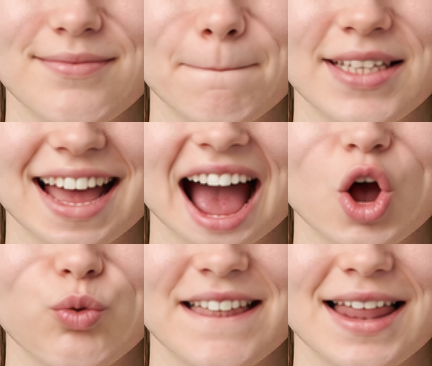
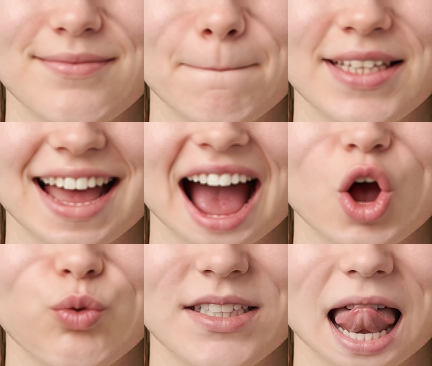
feat: rebuild Emma and prepare phonetic mouth cues before speech playback

diff --git a/cloudflare-deploy/public/js/mango-avatar.js b/cloudflare-deploy/public/js/mango-avatar.js
@@ -91,7 +91,7 @@
 (function(){
   function noop(){}
   if(!window.MangoAvatar){
-    window.MangoAvatar = { plainStart:noop, plainStop:noop, attach:noop, setCharacter:noop,
+    window.MangoAvatar = { plainStart:noop, plainStop:noop, attach:noop, prepare:function(){return Promise.resolve(null);}, setCharacter:noop,
       playClip:function(){ return Promise.reject(new Error('avatar_not_ready')); } };
   }
 
@@ -120,7 +120,10 @@
   //   ℹ 기본값은 그 반대(fade 130 > hold 90)이고 Lily·Noah 가 그대로인데 «그게 정상» 입니다 —
   //      그쪽은 한 번에 바뀌는 픽셀이 2~3% 뿐이라 겹쳐도 안 보입니다. 고치지 마세요.
   var CHARACTERS = {
-    emma: { sources:[['/img/teacher-avatar.webm','video/webm'],['/img/teacher-avatar.mp4','video/mp4']],
+    // 2026-10-16: user authorized a new Emma identity with registered mouth-only poses.
+    emma: { frames:{closed:'/img/visemes/emma-v2-rest.webp',medium:'/img/visemes/emma-v2-mid.webp',wide:'/img/visemes/emma-v2-wide.webp'},
+            still:'/img/visemes/emma-v2-rest.webp',rect:{l:0,t:0,r:1,b:1},aspect:0.8,keyed:false,fallback:'emma_classic' },
+    emma_classic: { sources:[['/img/teacher-avatar.webm','video/webm'],['/img/teacher-avatar.mp4','video/mp4']],
             still:'/img/teacher-avatar.png', rect:{ l:67/512, t:40/512, r:445/512, b:1 },
             poses:{ closed:3.3, medium:0.2, wide:4.0 }, hold:200, fade:160 },
     jake: { sources:[['/img/hero-avatar.mp4','video/mp4']],
@@ -128,7 +131,7 @@
             poses:{ closed:3.2, medium:7.1, wide:3.5 }, hold:200, fade:160 },
     lily: { frames:{ closed:'/img/lily-closed.webp', medium:'/img/lily-mid.webp', wide:'/img/lily-wide.webp' },
             still:'/img/lily-closed.webp', rect:{ l:0, t:0, r:1, b:1 },
-            aspect:0.8, keyed:false, fallback:'emma' },
+            aspect:0.8, keyed:false, fallback:'emma_classic' },
     noah: { frames:{ closed:'/img/noah-closed.webp', medium:'/img/noah-mid.webp', wide:'/img/noah-wide.webp' },
             still:'/img/noah-closed.webp', rect:{ l:0, t:0, r:1, b:1 },
             aspect:0.8, keyed:false, fallback:'jake' },
@@ -137,7 +140,7 @@
     //       «중국인 얼굴이 영어로 말하는» 상태가 됩니다(웜업에 중국어가 붙은 것이 먼저입니다).
     mei:  { frames:{ closed:'/img/mei-closed.webp', medium:'/img/mei-mid.webp', wide:'/img/mei-wide.webp' },
             still:'/img/mei-closed.webp', rect:{ l:0, t:0, r:1, b:1 },
-            aspect:0.8, keyed:false, fallback:'emma' },
+            aspect:0.8, keyed:false, fallback:'emma_classic' },
     /* 🀄 long(龙老师·룽 선생님) — 중국어 «남자» 교사(2026-09-14 사장님 「남자 교사도 한명더」).
        메이와 같은 규격입니다(입모양 3장·4:5·투명 WebP). fallback 이 jake 인 까닭은
        그림을 못 받았을 때 «남자» 얼굴로 떨어져야 목소리와 어긋나지 않기 때문입니다.
@@ -151,7 +154,7 @@
   };
   // 옛 이름으로 부르는 코드가 남아 있어도 조용히 죽지 않게 — setCharacter 가 먼저 풀어 준다.
   // ⚠ 화면이 새 이름으로만 부르도록 고쳤지만, 이 표를 지우면 옛 호출이 «아무 일도 안 일어남» 이 됩니다.
-  var CHAR_ALIAS = { female:'emma', male:'jake', female_classic:'emma', male_classic:'jake' };
+  var CHAR_ALIAS = { female:'emma', male:'jake', female_classic:'emma_classic', male_classic:'jake' };
   var BASE_W = 320;   // 캔버스 내부 해상도 기준 폭(캐릭터별 비율에 맞춰 높이만 재계산)
 
   function build(){
@@ -278,24 +281,26 @@
     var bindings = new WeakMap(), buffering = false, mouthCues=null, cueUrl='', preciseFaces={};
     // Generated mouths registered onto the shipped face. G/H use conservative substitutes
     // until F/V contact and tongue poses pass visual QA.
-    var PRECISION={lily:{base:'/img/lily-closed.webp',x:250,y:294,w:144,h:122},
-      noah:{base:'/img/noah-closed.webp',x:244,y:364,w:154,h:130},
-      emma:{base:'/img/visemes/emma-base.png',x:173,y:284,w:152,h:126}};
+    var PRECISION={lily:{extra:true,base:'/img/lily-closed.webp',x:250,y:294,w:144,h:122},
+      noah:{extra:true,base:'/img/noah-closed.webp',x:244,y:364,w:154,h:130},
+      emma:{extra:true,base:'/img/visemes/emma-v2-rest.webp',atlas:'/img/visemes/emma-v2-mouths.webp',x:183,y:282,w:146,h:126}};
     function precisionFace(){
       if(!PRECISION[curChar])return null;
       if(!preciseFaces[curChar]){
         var p=PRECISION[curChar],base=new Image(),mouths=new Image();
-        base.src=p.base;mouths.src='/img/visemes/'+curChar+'-mouths.webp';
+        base.src=p.base;mouths.src=p.atlas||('/img/visemes/'+curChar+'-mouths.webp');
         preciseFaces[curChar]={base:base,mouths:mouths,rect:p};
       }
       return preciseFaces[curChar];
     }
     function prepareCues(el){
-      mouthCues=null;cueUrl=el.currentSrc||el.src||'';
+      var nextUrl=el.src||el.currentSrc||'';
+      if(cueUrl!==nextUrl)mouthCues=null;cueUrl=nextUrl;
       var url=cueUrl;
-      if(!window.AvatarVisemes || !url)return;
-      window.AvatarVisemes.prepare(url).then(function(cues){
-        if(boundEl===el && cueUrl===url && (el.currentSrc||el.src||'')===url)mouthCues=cues;
+      if(!window.AvatarVisemes || !url)return Promise.resolve(null);
+      return window.AvatarVisemes.prepare(url).then(function(cues){
+        if(boundEl===el && cueUrl===url && (el.src||el.currentSrc||'')===url)mouthCues=cues;
+        return cues;
       }).catch(function(){});
     }
     function ensureCtx(){
@@ -332,7 +337,7 @@
       var pf=precisionFace(), precise=pf && mouthCues && !clipActive;
       if(precise && pf.base.complete && pf.base.naturalWidth && pf.mouths.complete && pf.mouths.naturalWidth){
         var pose=(!boundEl || boundEl.paused || boundEl.ended || buffering || !drawing) ? 'X' : window.AvatarVisemes.at(mouthCues,boundEl.currentTime);
-        if(pose==='G')pose='B';if(pose==='H')pose='C';
+        if(!pf.rect.extra){if(pose==='G')pose='B';if(pose==='H')pose='C';}
         var ix='XABCDEFGH'.indexOf(pose), r=pf.rect;
         var bw=pf.base.naturalWidth,bh=pf.base.naturalHeight;
         var bx=bw*cropRect.l,by=bh*cropRect.t,sw=bw*(cropRect.r-cropRect.l),sh=bh*(cropRect.b-cropRect.t);
@@ -523,6 +528,7 @@
           if(!audioEl.paused && !audioEl.ended) window.MangoAvatar.plainStart();
         }catch(e){ /* Preserve audible playback if Web Audio is unavailable. */ }
       },
+      prepare: function(audioEl){ if(boundEl!==audioEl)window.MangoAvatar.attach(audioEl);return prepareCues(audioEl); },
       // 캐릭터 전환 — 'emma'|'jake'|'lily'|'noah' (옛 'female'|'male' 도 받습니다).
       setCharacter: function(name){
         name = CHAR_ALIAS[name] || name;

diff --git a/cloudflare-deploy/public/js/game-tts.js b/cloudflare-deploy/public/js/game-tts.js
@@ -17,7 +17,7 @@
      늦게 도착한 소리가 그 위로 재생된다. 그러면 «AI 목소리가 나오는 채로 마이크가
      열려 음성인식이 AI 말을 받아 적던» 2026-07-23 사고가 그대로 되살아난다.
      그래서 늦게 온 응답은 이 번호를 보고 스스로 물러난다. */
-  var seq = 0;
+  var seq = 0, playTimer = 0;
   // 현재 발음 언어: 'en'(기본) | 'zh'(중국어). localStorage 로 페이지 간 공유.
   var curLang = (function(){ try{ var l=localStorage.getItem('mangoi_game_lang'); return (l==='zh')?'zh':'en'; }catch(_){ return 'en'; } })();
   // 🎙 서버 화자(Aura-2 speaker) — setSpeaker('orion'|'asteria'|null). null=서버 기본(여성 asteria).
@@ -134,18 +134,27 @@
   function playUrl(u, rate, onend){
     try{
       if(!audioEl) audioEl = new Audio();
-      var done=false, fin=function(){ if(!done){ done=true; if(onend) onend(); } };
-      if(onend){ audioEl.onended=fin; audioEl.onerror=fin; setTimeout(fin, 8000); }
-      else { audioEl.onended=null; audioEl.onerror=null; }
-      audioEl.src=u; audioEl.playbackRate = rate||1;
-      audioEl.play().catch(function(){ fin(); });
-    }catch(_){ if(onend) onend(); }
+      clearTimeout(playTimer);
+      var mine=seq, done=false, timer=0;
+      var fin=function(){if(!done){done=true;clearTimeout(timer);if(onend && mine===seq)onend();}};
+      audioEl.onended=fin;audioEl.onerror=fin;
+      audioEl.src=u;audioEl.playbackRate=rate||1;
+      var prepare=window.MangoAvatar && MangoAvatar.prepare ? MangoAvatar.prepare(audioEl) : Promise.resolve();
+      Promise.resolve(prepare).catch(function(){}).then(function(){
+        if(mine!==seq || audioEl.src!==u || done)return;
+        // Start the safety deadline only after preparation, sized for the complete clip.
+        var duration=Number(audioEl.duration);
+        timer=playTimer=setTimeout(fin,Number.isFinite(duration)?Math.max(8000,duration/(rate||1)*1000+4000):90000);
+        audioEl.play().catch(fin);
+      });
+    }catch(_){if(onend)onend();}
   }
   // speak(text, rate?, onend?) — onend 는 재생이 끝나면 1회 호출 (말하기 미션 등 흐름 연결용)
   //   클라우드 우선(en=Deepgram Aura-1, zh=서버가 진짜 만다린 반환) → 실패 시 브라우저 폴백
   function speak(text, rate, onend){
     text=stripEmoji(text); if(!text){ if(onend) onend(); return; }
     try{ window.speechSynthesis && window.speechSynthesis.cancel(); }catch(_){}
+    var mine = ++seq;
     var key = ckey(text);
     if(cache[key]){ playUrl(cache[key], rate, onend); return; }
     /* 🎙 한 번 실패했다고 곧바로 «기기 목소리» 로 가지 않는다 — 원어민 음성과 전혀 달라
@@ -153,7 +162,6 @@
        물어보면 일시적 흔들림은 여기서 끝난다.
        ⛔ 기기 목소리 폴백 자체는 없애지 마세요 — 소리가 아예 안 나는 것이 더 나쁩니다
           (앱 WebView·뉴런 소진 때는 그것뿐입니다). 「한 번 더」 뒤에만 갑니다. */
-    var mine = ++seq;
     var attempt = function(tryNo){
       fetchTTS(text).then(function(u){
         if(mine!==seq) return;            // 멈췄거나 다음 발화가 시작됐다 — 물러난다
@@ -193,7 +201,8 @@
      <audio> 로 재생**된다. 그래서 AI 목소리가 스피커로 계속 나오는 채로 마이크가 열렸고,
      음성인식이 AI 목소리를 학생 말로 받아 적어 엉뚱한 문장이 전송됐다. */
   function stop(){
-    seq++;   // ⚠ 재시도가 «멈춘 뒤» 도착해 마이크 옆에서 재생되지 않게(위 seq 주석)
+    seq++;
+    clearTimeout(playTimer);   // ⚠ 재시도가 «멈춘 뒤» 도착해 마이크 옆에서 재생되지 않게(위 seq 주석)
     try{ window.speechSynthesis && window.speechSynthesis.cancel(); }catch(_){}
     try{ if(audioEl){ audioEl.onended=null; audioEl.onerror=null; audioEl.pause(); try{ audioEl.currentTime=0; }catch(_2){} } }catch(_){}
   }

diff --git a/cloudflare-deploy/public/ai-friend.html b/cloudflare-deploy/public/ai-friend.html
@@ -349,8 +349,8 @@
     @keyframes micPulse { 0%,100% { box-shadow: 0 0 0 0 rgba(239,68,68,0.55); } 50% { box-shadow: 0 0 0 8px rgba(239,68,68,0); } }
   </style>
 <link rel="stylesheet" href="/css/mango-avatar.css?v=3"><!-- 👩🏫 강사 아바타 -->
-<script src="/js/avatar-visemes.js?v=1" defer></script>
-<script src="/js/mango-avatar.js?v=22" defer></script>
+<script src="/js/avatar-visemes.js?v=2" defer></script>
+<script src="/js/mango-avatar.js?v=23" defer></script>
 <script defer src="/js/tts-short-text.js?v=1"></script><!-- 🔊 기기 목소리도 짧은 영어 낱말을 «Study.» 모양으로(서버와 같은 규칙) -->
 
 <style>
@@ -691,7 +691,7 @@
       // emma 는 -2: 정지 PNG(teacher-avatar.png)가 부옇고 회색 얼룩이 있어(사장님 「잘 보이지 않아」 2026-09-04)
       //   영상(teacher-avatar.webm) 첫 프레임을 크로마키+선명화해 다시 만들었다. 이름을 바꾼 이유는 캐시 —
       //   같은 이름으로 덮으면 이미 받은 브라우저는 옛 그림을 계속 보여 준다.
-      { v: 'emma', emoji: '👩', face: '/img/friend-emma-2.webp', name: 'Emma',
+      { v: 'emma', emoji: '👩', face: '/img/visemes/emma-v2-thumb.webp', name: 'Emma',
         ko: '엠마', en: 'Emma', persona: 'friendly',
         d_ko: '다정하게 이야기해요', d_en: 'Warm and friendly',
         hi: "Hi! I'm Emma. What do you want to talk about today?" },
@@ -1968,7 +1968,7 @@
   .cele-banner .cb-sub{font-size:16px}
 }
 </style>
-<script defer src="/js/game-tts.js?v=6"></script><!-- 🔊 원어민 TTS(Aura-2 화자선택+이모지 낭독 방지+stop()) 공용 모듈. v4: getAudioEl(아바타 음량 립싱크). v6: 서버 실패 시 400ms 뒤 한 번 더 물어본 뒤에만 기기 목소리로 — 「목소리가 계속 변해」 -->
+<script defer src="/js/game-tts.js?v=7"></script><!-- 🔊 원어민 TTS(Aura-2 화자선택+이모지 낭독 방지+stop()) 공용 모듈. v4: getAudioEl(아바타 음량 립싱크). v6: 서버 실패 시 400ms 뒤 한 번 더 물어본 뒤에만 기기 목소리로 — 「목소리가 계속 변해」 -->
 <script defer src="/js/mangoi-voice-input.js?v=5"></script><!-- 🎤 음성인식 미지원 브라우저용 녹음+Whisper 폴백 -->
 <script defer src="/js/voice-has-speech.js?v=1"></script><!-- 🎤 작은 목소리 구제(녹음 파일 말소리 판정) -->
 <script defer src="/js/aifriend-auto-talk.js?v=1"></script>

diff --git a/cloudflare-deploy/public/speech-coach.html b/cloudflare-deploy/public/speech-coach.html
@@ -408,8 +408,8 @@
 <!-- 👩🏫 공용 아바타 모듈. ⛔ /css/mango-avatar.css 는 «싣지 마세요» —
      이 화면은 아바타 크기·모양 CSS 를 이미 자기 <style> 안에 갖고 있고(150·260·118·92px),
      공용 CSS 가 뒤에 오면 같은 명시도에서 이겨 카드 크기가 136px 로 줄어듭니다. -->
-<script src="/js/avatar-visemes.js?v=1" defer></script>
-<script src="/js/mango-avatar.js?v=22" defer></script>
+<script src="/js/avatar-visemes.js?v=2" defer></script>
+<script src="/js/mango-avatar.js?v=23" defer></script>
 <script src="/js/speech-preferences.js?v=3"></script>
 <script defer src="/js/tts-short-text.js?v=1"></script><!-- 🔊 기기 목소리도 짧은 영어 낱말을 «Study.» 모양으로(서버와 같은 규칙) -->
 </head>
@@ -423,7 +423,7 @@
         data-ko-aria="AI 친구 고르기" data-en-aria="Choose your AI friend">&#9776;</button>
 <div id="sc-friend-menu" hidden role="menu" aria-label="AI 친구">
   <div class="scf-title">🎙 <span data-ko="AI 친구 (목소리·얼굴)" data-en="AI friend (voice &amp; face)">AI 친구 (목소리·얼굴)</span></div>
-  <button type="button" role="menuitemradio" data-p="emma" onclick="scSetFriend('emma',true)"><img class="scf-photo" src="/img/friend-emma-2.webp" alt="" width="64" height="64"><span>Emma</span></button>
+  <button type="button" role="menuitemradio" data-p="emma" onclick="scSetFriend('emma',true)"><img class="scf-photo" src="/img/visemes/emma-v2-thumb.webp" alt="" width="64" height="64"><span>Emma</span></button>
   <button type="button" role="menuitemradio" data-p="lily" onclick="scSetFriend('lily',true)"><img class="scf-photo" src="/img/friend-lily.webp" alt="" width="64" height="64"><span>Lily</span></button>
   <button type="button" role="menuitemradio" data-p="noah" onclick="scSetFriend('noah',true)"><img class="scf-photo" src="/img/friend-noah.webp" alt="" width="64" height="64"><span>Noah</span></button>
   <button type="button" role="menuitemradio" data-p="jake" onclick="scSetFriend('jake',true)"><img class="scf-photo" src="/img/friend-jake.webp" alt="" width="64" height="64"><span>Jake</span></button>

diff --git a/cloudflare-deploy/public/warmup.html b/cloudflare-deploy/public/warmup.html
@@ -542,8 +542,8 @@
   }
 </style>
 <link rel="stylesheet" href="/css/mango-avatar.css?v=3"><!-- 👩🏫 강사 아바타 -->
-<script src="/js/avatar-visemes.js?v=1" defer></script>
-<script src="/js/mango-avatar.js?v=22" defer></script>
+<script src="/js/avatar-visemes.js?v=2" defer></script>
+<script src="/js/mango-avatar.js?v=23" defer></script>
 <script src="/js/game-track.js?v=4" defer></script>
 <script defer src="/js/tts-short-text.js?v=1"></script><!-- 🔊 기기 목소리도 짧은 영어 낱말을 «Study.» 모양으로(서버와 같은 규칙) -->
 </head>
@@ -2902,8 +2902,12 @@ function speak(text, btn){
       _ttsAudio.playbackRate=(deep ? (AUDIO_RATE[_rateLevel]||1) : _enMaleRate(AUDIO_RATE[_rateLevel]||1)) / (deep ? ZH_MALE_PITCH : 1);
       // 배속 시 음높이 유지(브라우저 기본이지만 명시) — 남자 목소리가 늘어지거나 깔리는 것 방지
       try{ _ttsAudio.preservesPitch=true; _ttsAudio.webkitPreservesPitch=true; }catch(e2){}
-      try{ window.MangoAvatar && MangoAvatar.plainStart(); }catch(e){}   // 👩🏫 재생 시작 직전에 아바타 입 움직임 개시
-      _ttsAudio.play().then(function(){ _speechEverStarted=true; _latMark(); })
+      var lipReady=window.MangoAvatar && MangoAvatar.prepare ? MangoAvatar.prepare(_ttsAudio) : Promise.resolve();
+      Promise.resolve(lipReady).catch(function(){}).then(function(){
+        if(_atSeq!==_speakSeq || _ttsAudio.src!==u || fired)return;
+        try{ window.MangoAvatar && MangoAvatar.plainStart(); }catch(e){}
+        return _ttsAudio.play().then(function(){ _speechEverStarted=true; _latMark(); });
+      })
         /* 자동재생 차단 — 첫 터치(unlockAudio)에서 «답장 전체» 를 다시 읽는다.
            ⚠ 조각 모드에서도 다음 조각으로 넘어가지 않고 여기서 끝낸다 — 넘어가면 사람이 탭한 순간
               뒷조각만 재생돼 unlockAudio 의 재낭독이 취소되고 앞문장이 사라진다. */

diff --git a/cloudflare-deploy/public/student-game-language-ace.html b/cloudflare-deploy/public/student-game-language-ace.html
@@ -182,7 +182,7 @@
      MangoiMemory.log 를 감싸 자동으로 POST /api/games/shadow 로 보낸다 — 채점 코드는 안 건드린다.
      ⚠ 반드시 mangoi-memory.js **다음에** 실을 것. -->
 <script src="/js/mangoi-shadow-sync.js?v=1"></script>
-<script defer src="/js/game-tts.js?v=6"></script><!-- 🙊 이모지 정제 규칙 단일 출처(MangoiTTS.stripEmoji) -->
+<script defer src="/js/game-tts.js?v=7"></script><!-- 🙊 이모지 정제 규칙 단일 출처(MangoiTTS.stripEmoji) -->
 <script src="/js/i18n-sweep.js?v=23" defer></script>
 <script src="/js/game-track.js?v=4" defer></script>
 <script defer src="/js/tts-short-text.js?v=1"></script><!-- 🔊 기기 목소리도 짧은 영어 낱말을 «Study.» 모양으로(서버와 같은 규칙) -->

diff --git a/cloudflare-deploy/public/student-game-tetris.html b/cloudflare-deploy/public/student-game-tetris.html
@@ -296,7 +296,7 @@
      MangoiMemory.log 를 감싸 자동으로 POST /api/games/shadow 로 보낸다 — 채점 코드는 안 건드린다.
      ⚠ 반드시 mangoi-memory.js **다음에** 실을 것. -->
 <script src="/js/mangoi-shadow-sync.js?v=1"></script>
-<script defer src="/js/game-tts.js?v=6"></script><!-- 🙊 이모지 정제 규칙 단일 출처(MangoiTTS.stripEmoji) -->
+<script defer src="/js/game-tts.js?v=7"></script><!-- 🙊 이모지 정제 규칙 단일 출처(MangoiTTS.stripEmoji) -->
 <script src="/js/i18n-sweep.js?v=23" defer></script>
 <script src="/js/game-track.js?v=4" defer></script>
 <script defer src="/js/tts-short-text.js?v=1"></script><!-- 🔊 기기 목소리도 짧은 영어 낱말을 «Study.» 모양으로(서버와 같은 규칙) -->

diff --git a/cloudflare-deploy/public/student-game-tank-battle.html b/cloudflare-deploy/public/student-game-tank-battle.html
@@ -346,7 +346,7 @@
      MangoiMemory.log 를 감싸 자동으로 POST /api/games/shadow 로 보낸다 — 채점 코드는 안 건드린다.
      ⚠ 반드시 mangoi-memory.js **다음에** 실을 것. -->
 <script src="/js/mangoi-shadow-sync.js?v=1"></script>
-<script defer src="/js/game-tts.js?v=6"></script><!-- 🙊 이모지 정제 규칙 단일 출처(MangoiTTS.stripEmoji) -->
+<script defer src="/js/game-tts.js?v=7"></script><!-- 🙊 이모지 정제 규칙 단일 출처(MangoiTTS.stripEmoji) -->
 <script src="/js/i18n-sweep.js?v=23" defer></script>
 <script src="/vendor/three/three.min.js?v=1"></script>
 <script src="/vendor/three/GLTFLoader.js?v=1"></script>

diff --git a/cloudflare-deploy/public/student-game-p38-3d.html b/cloudflare-deploy/public/student-game-p38-3d.html
@@ -777,7 +777,7 @@
 
 <script src="/vendor/three/three.min.js?v=1"></script>
 <script src="/vendor/three/GLTFLoader.js?v=1"></script>
-<script defer src="/js/game-tts.js?v=6"></script><!-- 🙊 이모지 정제 규칙 단일 출처(MangoiTTS.stripEmoji) -->
+<script defer src="/js/game-tts.js?v=7"></script><!-- 🙊 이모지 정제 규칙 단일 출처(MangoiTTS.stripEmoji) -->
 <script src="/js/lesson-nav.js?v=2"></script>
 <script src="/js/mangoi-stt.js?v=2"></script>
 <!-- 🗣🎧 (2026-08-03) 말하기 판정 통일 + 한국인 발음 처방 + 게임 공통 기억 큐 (무료·서버 호출 없음) -->

diff --git a/cloudflare-deploy/public/battle-3d.html b/cloudflare-deploy/public/battle-3d.html
@@ -210,7 +210,7 @@
        ⚠ game-tts.js 를 함께 싣는 이유: 이 게임은 자체 <audio>(ttsA) 로만 발음하는데,
           4단 모듈의 낭독은 MangoiTTS 를 쓴다. 안 실으면 브라우저 speechSynthesis 로 떨어지고
           중국어는 그 경로가 깨진 음성이 나온다(CLAUDE.md 함정표). -->
-  <script src="/js/game-tts.js?v=6"></script>
+  <script src="/js/game-tts.js?v=7"></script>
   <script src="/js/mangoi-stt.js?v=2"></script>
   <script src="/js/mangoi-voice-input.js?v=5"></script>
   <script src="/js/mangoi-speak-score.js?v=1"></script>

diff --git a/cloudflare-deploy/public/speech-coach-cn.html b/cloudflare-deploy/public/speech-coach-cn.html
@@ -245,8 +245,8 @@ header.hero .home:hover{background:rgba(255,255,255,0.28)}
   #tavatar-status{ font-size:15px; padding:5px 15px; }
 }
 </style>
-<script src="/js/avatar-visemes.js?v=1" defer></script>
-<script src="/js/mango-avatar.js?v=22" defer></script>
+<script src="/js/avatar-visemes.js?v=2" defer></script>
+<script src="/js/mango-avatar.js?v=23" defer></script>
 <script defer src="/js/tts-short-text.js?v=1"></script><!-- 🔊 기기 목소리도 짧은 영어 낱말을 «Study.» 모양으로(서버와 같은 규칙) -->
 </head>
 <body>

diff --git a/cloudflare-deploy/public/judgment.html b/cloudflare-deploy/public/judgment.html
@@ -330,7 +330,7 @@
 </style>
 <script src="/js/game-track.js?v=4" defer></script>
 <!-- 🔊 원어민 TTS(서버 Deepgram Aura-2 미국 여성 → Aura-1 → MeloTTS → 브라우저 폴백) -->
-<script src="/js/game-tts.js?v=6" defer></script>
+<script src="/js/game-tts.js?v=7" defer></script>
 <script defer src="/js/tts-short-text.js?v=1"></script><!-- 🔊 기기 목소리도 짧은 영어 낱말을 «Study.» 모양으로(서버와 같은 규칙) -->
 </head>
 <body>
